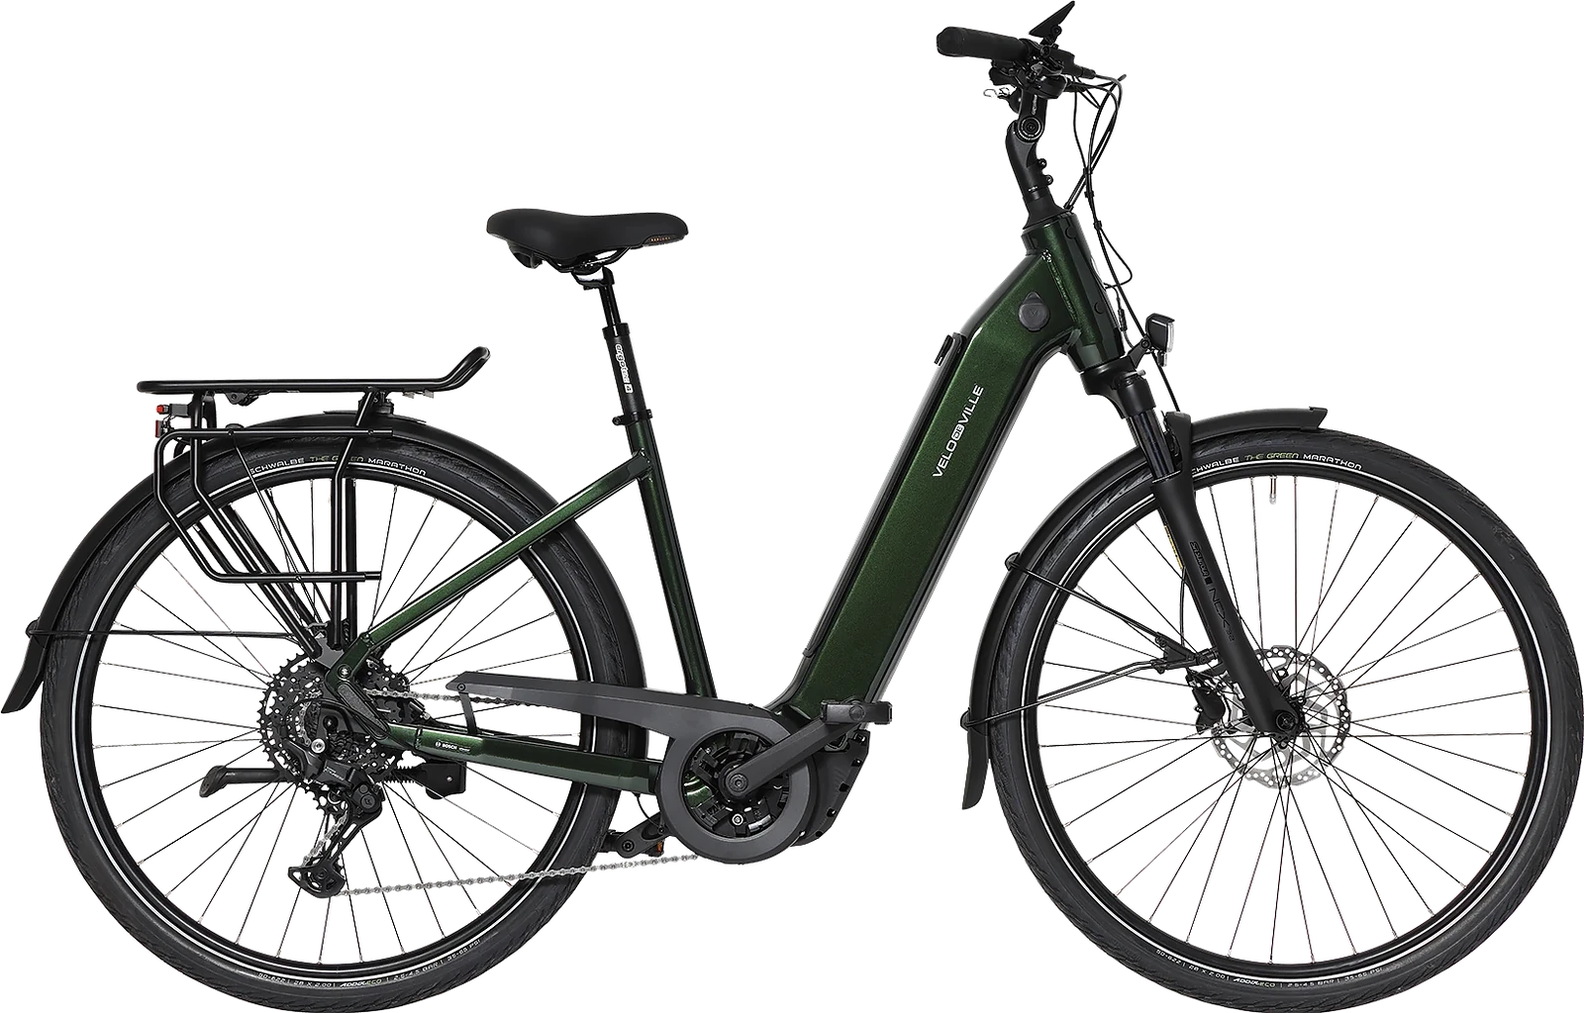
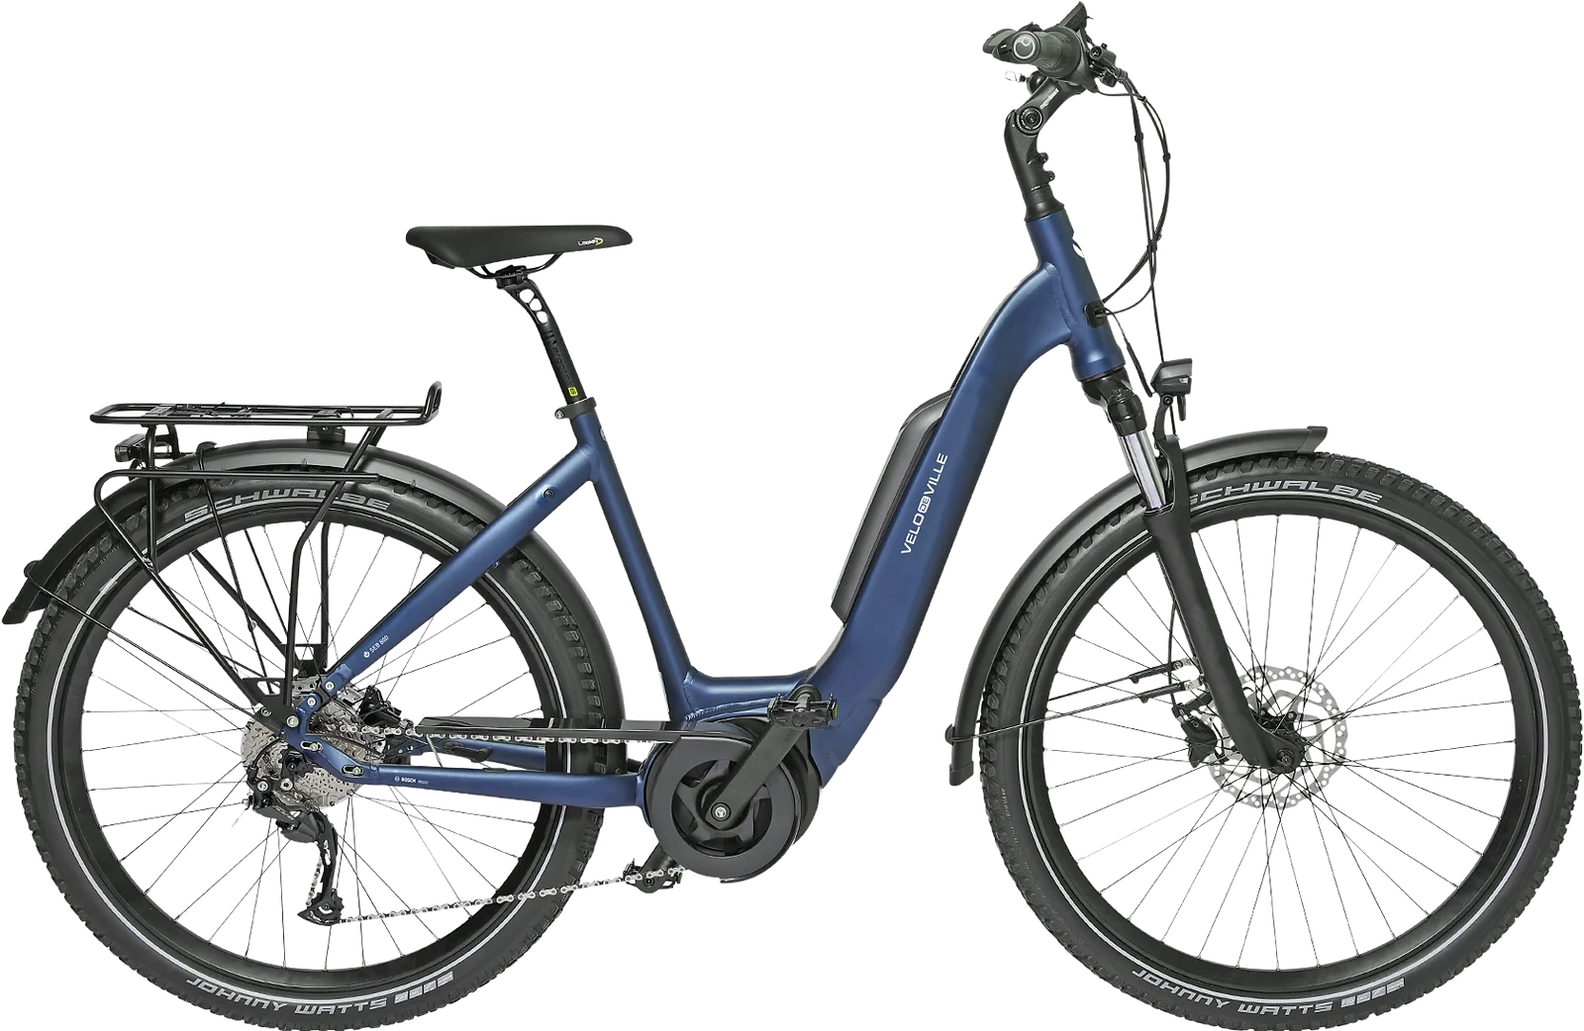
Velocenter-Homepage: neue Knöpfe, Anthrazit-Dock, Probefahrt im Terminformular
Knöpfe mit Symbol-Kapsel rechts (Rot mit Verlauf, Milchglas), Schnellzugriffe als
Anthrazit-Dock mit Live-Punkt; Hol- & Bringservice überall entfernt; Probefahrt im
Formular wählbar und aus dem Showroom vorausgewählt; Velo de Ville: SEB Classic (SUV, ohne Frontträger).

Claude-Session: https://claude.ai/code/session_01AC3hVdMMJayFA5k58UgPiU

Changed region(s): [[0.0, 0.0, 1.0, 1.0]]

diff --git a/velocenter-homepage/index.html b/velocenter-homepage/index.html
@@ -925,6 +925,48 @@ textarea.inp{border-radius:12px}
 .ribbons i:nth-child(1){top:20%;height:30px;filter:none;background:repeating-linear-gradient(180deg,rgba(176,18,31,.8) 0 2px,transparent 2px 10px);-webkit-mask-image:linear-gradient(90deg,transparent 12%,#000 38%,#000 58%,transparent 86%);mask-image:linear-gradient(90deg,transparent 12%,#000 38%,#000 58%,transparent 86%);opacity:.75}
 .ribbons i:nth-child(4){top:74%;height:22px;filter:none;background:repeating-linear-gradient(180deg,rgba(176,18,31,.75) 0 2px,transparent 2px 10px);-webkit-mask-image:linear-gradient(90deg,transparent 20%,#000 45%,#000 60%,transparent 85%);mask-image:linear-gradient(90deg,transparent 20%,#000 45%,#000 60%,transparent 85%);opacity:.6}
 .ribbons i:nth-child(3){background:linear-gradient(90deg,transparent 6%,rgba(80,84,92,.3) 30%,rgba(100,104,112,.4) 55%,rgba(80,84,92,.16) 80%,transparent 95%)}
+
+/* ================= Moderne Knöpfe 2.0 + Anthrazit-Dock (Tiry 12.11.2026) ================= */
+.cta,.ghost{position:relative;isolation:isolate;overflow:hidden;display:inline-flex;align-items:center;gap:14px;min-height:56px;padding:0 6px 0 24px;border-radius:16px;font:700 15.5px/1 var(--display);letter-spacing:.005em;transition:transform .35s var(--ease),box-shadow .35s,background .35s,color .3s}
+.cta svg,.ghost svg{order:2;flex:none;width:44px;height:44px;padding:12px;border-radius:12px;transition:transform .5s var(--spring),background .3s}
+.cta:hover svg,.ghost:hover svg{transform:rotate(-10deg) scale(1.06)}
+.cta:not(:has(svg)),.ghost:not(:has(svg)){padding-right:24px}
+.cta{color:#fff;border:0;background:linear-gradient(120deg,#F4404D 0%,#D3142F 42%,#9E0F22 100%);box-shadow:0 16px 32px -14px rgba(200,16,46,.75),inset 0 1px 0 rgba(255,255,255,.25)}
+.cta svg{background:#fff;color:#C8102E}
+.cta::before{content:"";position:absolute;inset:0;z-index:-1;background:linear-gradient(105deg,transparent 30%,rgba(255,255,255,.38) 50%,transparent 70%);transform:translateX(-120%);transition:transform .9s var(--ease)}
+.cta:hover::before{transform:translateX(120%)}
+.cta:hover{background:linear-gradient(120deg,#F4404D 0%,#D3142F 42%,#9E0F22 100%);transform:translateY(-2px);box-shadow:0 22px 40px -16px rgba(200,16,46,.85),inset 0 1px 0 rgba(255,255,255,.25)}
+.ghost{color:#1B1E25;border:1px solid rgba(255,255,255,.75);background:rgba(255,255,255,.55);backdrop-filter:blur(14px) saturate(1.4);-webkit-backdrop-filter:blur(14px) saturate(1.4);box-shadow:0 12px 28px -16px rgba(27,30,37,.45)}
+.ghost svg{background:#2A2D34;color:#fff}
+.ghost:hover{background:rgba(255,255,255,.88);color:#1B1E25;border-color:#fff;transform:translateY(-2px)}
+.cta.wa{background:linear-gradient(120deg,#34D27A,#1FA855 55%,#137A3D);box-shadow:0 16px 32px -14px rgba(31,168,85,.7)}
+.cta.wa svg{color:#1FA855}
+.hdr .cta{min-height:46px;padding:0 5px 0 18px;border-radius:14px;font-size:14.5px;gap:10px}
+.hdr .cta svg{width:36px;height:36px;padding:9px;border-radius:10px}
+.showinfo .cta,.showinfo .ghost,.fr .cta,.fr .ghost,.chap .ghost,.finder .ghost{min-height:48px;font-size:14.5px;padding-left:18px}
+.showinfo .cta svg,.showinfo .ghost svg,.chap .ghost svg{width:38px;height:38px;padding:10px}
+/* Schnellzugriff als Anthrazit-Dock */
+.quick{gap:6px;padding:8px;border-radius:24px;overflow:visible;background:linear-gradient(180deg,#30333B,#1E2026);border:1px solid rgba(255,255,255,.08);backdrop-filter:none;-webkit-backdrop-filter:none;box-shadow:0 34px 60px -24px rgba(20,22,28,.6),inset 0 1px 0 rgba(255,255,255,.09)}
+.qk{border:0!important;border-radius:18px;padding:14px 52px 14px 14px;background:transparent;align-items:center;transition:background .3s}
+.qk:hover{background:rgba(255,255,255,.07)}
+.qk::before{display:none}
+.qk .ic{width:46px;height:46px;border-radius:13px;background:linear-gradient(135deg,#F4404D,#D3142F 50%,#9E0F22);box-shadow:0 10px 20px -8px rgba(200,16,46,.8),inset 0 1px 0 rgba(255,255,255,.25);transition:transform .5s var(--spring)}
+.qk:hover .ic{transform:rotate(-8deg)}
+.qk .ic svg{color:#fff;width:21px;height:21px}
+.qk b{color:#fff}
+.qk small{color:#A9AEBA}
+.qk::after{content:"→";right:12px;width:32px;height:32px;border-radius:10px;display:grid;place-items:center;background:rgba(255,255,255,.08);color:#fff;font-size:15px;opacity:0;transform:translate(-6px,-50%)}
+.qk:hover::after{opacity:1;transform:translate(0,-50%)}
+.qd{display:inline-block;width:8px;height:8px;border-radius:50%;margin-right:7px;vertical-align:1px;background:#EF4444;box-shadow:0 0 8px rgba(239,68,68,.8)}
+.qd.on{background:#34D399;box-shadow:0 0 8px rgba(52,211,153,.9)}
+@media (max-width:980px){.qk:nth-child(n+3){border-top:0}}
+@media (max-width:640px){
+ .quick{gap:4px;padding:6px;border-radius:20px}
+ .qk{padding:14px;align-items:flex-start}
+ .qk::after{display:none}
+ .cta,.ghost{min-height:52px;padding-left:20px}
+ .cta svg,.ghost svg{width:40px;height:40px;padding:11px}
+}
 </style>
 
 <svg width="0" height="0" style="position:absolute" aria-hidden="true">
@@ -1309,7 +1351,7 @@ m696 -454 c28 -13 46 -31 55 -51 22 -53 -50 -177 -173 -300 -187 -186 -647
      <p class="eyebrow hello" style="--d:.9s">Familienbetrieb seit 1995 · <b>Wörth am Rhein</b></p>
      <h1 class="hh1 hello" style="--d:1s">Ihr E-Bike-Spezialist<br><span class="gt it">mit eigener Werkstatt.</span></h1>
      <p class="lead hello" style="--d:1.1s">Über 300 Räder zum Probefahren, ehrliche Beratung und ein Bosch Service Center, in dem der Chef noch selbst schraubt.</p>
-     <div class="row hello" style="--d:1.2s"><a class="cta" href="#finder"><svg><use href="#i-spark"/></svg>Mein E-Bike finden</a><a class="ghost" href="#termin"><svg><use href="#i-wrench"/></svg>Werkstatt-Termin</a></div>
+     <div class="row hello" style="--d:1.2s"><a class="cta" href="#finder"><svg><use href="#i-spark"/></svg>Mein E-Bike finden</a><a class="ghost" href="#termin"><svg><use href="#i-cal"/></svg>Termin anfragen</a></div>
      <div class="trust hello" style="--d:1.3s"><span><svg style="color:#D97706"><use href="#i-star"/></svg><b>4,8</b> bei Google</span><span><svg><use href="#i-shield"/></svg>Bosch Service Center</span><span><svg><use href="#i-bike"/></svg>i:SY Experte</span><span><svg><use href="#i-clock"/></svg><em class="live" id="live"><i></i><span id="liveT">Öffnungszeiten</span></em></span></div>
     </div>
     <div class="hvis hello" style="--d:.5s" id="hvis">
@@ -1320,11 +1362,11 @@ m696 -454 c28 -13 46 -31 55 -51 22 -53 -50 -177 -173 -300 -187 -186 -647
      <img class="hb off" src="img/p-vanraam.webp" alt="Van Raam Easy Rider E-Dreirad" data-l="img/marke-vanraam.svg" width="1600" height="1193" loading="lazy">
      <div class="hfloor"></div>
      <span class="hchip c1"><b>300+</b> Räder vor Ort</span>
-     <span class="hchip c2"><svg><use href="#i-wrench"/></svg>Hol- &amp; Bringservice</span>
+     <span class="hchip c2"><svg><use href="#i-bike"/></svg>Probefahrt vor Ort</span>
     </div>
    </div>
    <nav class="quick hello" style="--d:1.45s" aria-label="Schnellzugriff">
-    <a class="qk" href="#termin"><span class="ic"><svg><use href="#i-cal"/></svg></span><span><b>Werkstatt-Termin</b><small>Online anfragen in 30 Sekunden</small></span></a>
+    <a class="qk" href="#termin"><span class="ic"><svg><use href="#i-cal"/></svg></span><span><b>Termin anfragen</b><small>Werkstatt oder Probefahrt</small></span></a>
     <a class="qk" href="#finder"><span class="ic"><svg><use href="#i-spark"/></svg></span><span><b>E-Bike-Finder</b><small>2 Fragen, passende Marken</small></span></a>
     <a class="qk" href="#deal"><span class="ic"><svg><use href="#i-gift"/></svg></span><span><b>Winter-Aktion</b><small>–20 € auf jede Inspektion</small></span></a>
     <a class="qk" href="#besuch"><span class="ic"><svg><use href="#i-clock"/></svg></span><span><b>Öffnungszeiten</b><small id="qkHours">Mo, Di, Do, Fr · Sa vormittags</small></span></a>
@@ -1333,7 +1375,7 @@ m696 -454 c28 -13 46 -31 55 -51 22 -53 -50 -177 -173 -300 -187 -186 -647
  </div>
 
  <div class="bands" aria-hidden="true">
-  <div class="band b"><div class="tk" data-t="Wörth am Rhein|Hartmannstraße 25|Familienbetrieb|Probefahrt|Hol- & Bringservice|0 % Finanzierung"></div></div>
+  <div class="band b"><div class="tk" data-t="Wörth am Rhein|Hartmannstraße 25|Familienbetrieb|Probefahrt|Ehrliche Beratung|0 % Finanzierung"></div></div>
   <div class="band a"><div class="tk" data-t="Seit 1995|300+ Räder|4,8 ★ bei Google|Bosch Service Center|i:SY Experte|Weltrekord 283"></div></div>
  </div>
 
@@ -1366,7 +1408,6 @@ m696 -454 c28 -13 46 -31 55 -51 22 -53 -50 -177 -173 -300 -187 -186 -647
    <div class="rows">
     <a class="srow pre" href="#service" style="--c:#F472B6"><span class="ic"><svg><use href="#i-bike"/></svg></span><span><h3>Beratung & Probefahrt</h3><p>Wir hören zu, zeigen eine passende Auswahl und begleiten Sie auf Wunsch bei der Probefahrt.</p></span><span class="go"><svg><use href="#i-arrow"/></svg></span></a>
     <a class="srow pre" href="#termin" style="--c:#22D3EE"><span class="ic"><svg><use href="#i-wrench"/></svg></span><span><h3>Inspektion & Reparatur</h3><p>Geschultes Bosch Service Center. Fachkundige Inspektionen und Reparaturen, auch nach dem Kauf.</p></span><span class="go"><svg><use href="#i-arrow"/></svg></span></a>
-    <a class="srow pre" href="#termin" style="--c:#FB923C"><span class="ic"><svg><use href="#i-truck"/></svg></span><span><h3>Hol- & Bringservice</h3><p>Wir holen Ihr Rad ab und bringen es zurück, gegen Gebühr.</p></span><span class="go"><svg><use href="#i-arrow"/></svg></span></a>
     <a class="srow pre" href="#service" style="--c:#E2232D"><span class="ic"><svg><use href="#i-euro"/></svg></span><span><h3>0 % Finanzierung</h3><p>0 % Zinsen und 0 € Anzahlung über die TARGOBANK.</p></span><span class="go"><svg><use href="#i-arrow"/></svg></span></a>
     <a class="srow pre" href="#service" style="--c:#34D399"><span class="ic"><svg><use href="#i-shield"/></svg></span><span><h3>ENRA Versicherung</h3><p>Schutz gegen Diebstahl, dazu Vollkasko mit Verschleiß und Pick-up-Service.</p></span><span class="go"><svg><use href="#i-arrow"/></svg></span></a>
     <a class="srow pre" href="#service" style="--c:#60A5FA"><span class="ic"><svg><use href="#i-case"/></svg></span><span><h3>Dienstrad-Leasing</h3><p>Wir arbeiten mit fast allen Leasing-Firmen zusammen, z. B. JobRad, Bikeleasing, Company Bike.</p></span><span class="go"><svg><use href="#i-arrow"/></svg></span></a>
@@ -1428,7 +1469,7 @@ m696 -454 c28 -13 46 -31 55 -51 22 -53 -50 -177 -173 -300 -187 -186 -647
    <p class="eyebrow hello">Service</p>
    <h1 class="mega hello" style="--d:.08s;margin-top:18px">Wir überzeugen<br><span class="gt it">mit Service.</span></h1>
    <p class="lead hello" style="--d:.16s">Wir wollen Ihnen nicht irgendein E-Bike verkaufen, sondern das Rad finden, das perfekt zu Ihnen passt. Und wir bleiben an Ihrer Seite, auch nach dem Kauf.</p>
-   <div class="row hello" style="--d:.24s"><a class="cta" href="#termin"><svg><use href="#i-cal"/></svg>Werkstatt-Termin anfragen</a></div>
+   <div class="row hello" style="--d:.24s"><a class="cta" href="#termin"><svg><use href="#i-cal"/></svg>Termin anfragen</a></div>
   </div>
  </div>
 
@@ -1441,7 +1482,6 @@ m696 -454 c28 -13 46 -31 55 -51 22 -53 -50 -177 -173 -300 -187 -186 -647
   <div class="wrap rows">
    <div class="srow pre" style="--c:#F472B6"><span class="ic"><svg><use href="#i-bike"/></svg></span><span><h3>Kaufberatung & Probefahrt</h3><p>Bei unserer fachmännischen Kaufberatung gehen wir genau auf Ihre Wünsche ein. Probefahren können Sie gern, auf Wunsch begleiten wir Sie. Ein i:SY dürfen Sie sogar übers Wochenende testen. Vorab hilft der <a href="https://www.bosch-ebike.com/range-cockpit/?language=de&logo" target="_blank" rel="noopener" style="color:var(--mag)">Bosch Reichweiten-Rechner</a>.</p></span></div>
    <div class="srow pre" style="--c:#22D3EE"><span class="ic"><svg><use href="#i-wrench"/></svg></span><span><h3>Inspektion & Reparatur</h3><p>Auch nach dem Kauf stehen wir an Ihrer Seite: fachkundige Inspektionen und Reparaturen für Fahrrad, E-Bike und E-Dreirad. E-Bike-Inspektion inklusive Software-Update.</p></span></div>
-   <div class="srow pre" style="--c:#FB923C"><span class="ic"><svg><use href="#i-truck"/></svg></span><span><h3>Hol- & Bringservice</h3><p>Keine Zeit oder kein Auto für den Transport? Wir holen Ihr Rad gegen Gebühr ab und bringen es nach der Werkstatt zurück.</p></span></div>
   </div>
  </div>
 
@@ -1449,15 +1489,15 @@ m696 -454 c28 -13 46 -31 55 -51 22 -53 -50 -177 -173 -300 -187 -186 -647
   <div class="wrap formwrap">
    <div class="pre">
     <p class="eyebrow">Online-<b>Terminanfrage</b></p>
-    <h2 class="big" style="margin-top:16px">Werkstatt-Termin <span class="gt">in 30 Sekunden.</span></h2>
-    <p class="lead" style="margin-top:20px">Wunschtag wählen, kurz beschreiben, abschicken. Ihre Anfrage geht direkt an uns, wir melden uns mit einem festen Termin.</p>
+    <h2 class="big" style="margin-top:16px">Termin anfragen <span class="gt">in 30 Sekunden.</span></h2>
+    <p class="lead" style="margin-top:20px">Probefahrt oder Werkstatt: Wunschtag wählen, kurz beschreiben, abschicken. Ihre Anfrage geht direkt an uns, wir melden uns mit einem festen Termin.</p>
     <div class="blobimg" style="margin-top:34px;max-width:460px"><img src="img/isy-blumen.webp" alt="i:SY E-Bikes mit Blumenkörben vor einer Holzhütte" loading="lazy" width="800" height="600"></div>
    </div>
    <form class="panel form pre" id="tf" novalidate style="--d:.1s">
-    <div class="fl"><span class="flab">Was dürfen wir tun?</span><div class="choice" id="tArt"><button type="button" class="on" data-v="Inspektion">Inspektion</button><button type="button" data-v="Reparatur">Reparatur</button><button type="button" data-v="Bosch-Diagnose">Bosch-Diagnose</button><button type="button" data-v="Reifen/Schlauch">Reifen / Schlauch</button></div></div>
-    <div class="fl"><span class="flab">Ihr Rad</span><div class="choice" id="tRad"><button type="button" data-v="Fahrrad">Fahrrad</button><button type="button" class="on" data-v="E-Bike">E-Bike</button><button type="button" data-v="E-Dreirad">E-Dreirad</button><button type="button" data-v="Lastenrad">Lastenrad</button></div></div>
+    <div class="fl"><span class="flab">Worum geht es?</span><div class="choice" id="tArt"><button type="button" data-v="Probefahrt">Probefahrt</button><button type="button" class="on" data-v="Inspektion">Inspektion</button><button type="button" data-v="Reparatur">Reparatur</button><button type="button" data-v="Bosch-Diagnose">Bosch-Diagnose</button><button type="button" data-v="Reifen/Schlauch">Reifen / Schlauch</button></div></div>
+    <div class="fl"><span class="flab">Rad</span><div class="choice" id="tRad"><button type="button" data-v="Fahrrad">Fahrrad</button><button type="button" class="on" data-v="E-Bike">E-Bike</button><button type="button" data-v="E-Dreirad">E-Dreirad</button><button type="button" data-v="Lastenrad">Lastenrad</button></div></div>
     <div class="r2"><div class="fl"><label for="tName">Name</label><input class="inp" id="tName" autocomplete="name" placeholder="Vor- und Nachname"></div><div class="fl"><label for="tTel">Telefon</label><input class="inp" id="tTel" type="tel" autocomplete="tel" placeholder="Für die Rückmeldung"></div></div>
-    <div class="r2"><div class="fl"><label for="tTag">Wunschtag</label><input class="inp" id="tTag" type="date"></div><div class="fl"><span class="flab">Hol- & Bringservice</span><div class="choice" id="tHol"><button type="button" class="on" data-v="nein">Nein</button><button type="button" data-v="ja">Ja, bitte</button></div></div></div>
+    <div class="r2"><div class="fl"><label for="tTag">Wunschtag</label><input class="inp" id="tTag" type="date"></div><div class="fl"><span class="flab">Tageszeit</span><div class="choice" id="tZeit"><button type="button" data-v="Vormittag">Vormittag</button><button type="button" data-v="Nachmittag">Nachmittag</button><button type="button" class="on" data-v="egal">Egal</button></div></div></div>
     <div class="fl"><label for="tMsg">Was ist los? (optional)</label><textarea class="inp" id="tMsg" placeholder="z. B. Bremse quietscht, Akku lädt nicht, Modell …"></textarea></div>
     <div class="err" id="tErr" role="alert"></div>
     <button class="cta" type="submit" style="align-self:flex-start"><svg><use href="#i-arrow"/></svg>Anfrage erstellen</button>
@@ -1700,7 +1740,7 @@ m696 -454 c28 -13 46 -31 55 -51 22 -53 -50 -177 -173 -300 -187 -186 -647
   <div class="sec plus" style="padding-top:0">
    <h2 class="big pre" style="margin-bottom:26px">Mehr Werkstatt. <span class="gt">Mehr Verkauf.</span></h2>
    <div class="find">
-    <div class="fnd pre"><span class="k">✓</span><p><b>Online-Terminanfrage für die Werkstatt</b> mit Wunschtag (Mi/So gesperrt) und Hol-/Bringservice, geht per WhatsApp oder E-Mail direkt an uns.<small>Füllt die Werkstatt, gerade im Winter.</small></p></div>
+    <div class="fnd pre"><span class="k">✓</span><p><b>Online-Terminanfrage für Probefahrt und Werkstatt</b> mit Wunschtag (Mi/So gesperrt) und Tageszeit, geht per WhatsApp oder E-Mail direkt an uns.<small>Füllt die Werkstatt und bringt Probefahrten in den Laden.</small></p></div>
     <div class="fnd pre"><span class="k">✓</span><p><b>E-Bike-Finder</b>: 2 Fragen, dann passende Marken mit Bild und der Knopf zur Probefahrt.<small>Bringt Kunden mit klarem Wunsch in den Laden.</small></p></div>
     <div class="fnd pre"><span class="k">✓</span><p><b>Showroom</b> mit allen 7 Marken zum Durchblättern, freigestellte Herstellerbilder in hoher Auflösung.</p></div>
     <div class="fnd pre"><span class="k">✓</span><p><b>Live „Jetzt geöffnet“</b> und die heutige Öffnungszeit hervorgehoben.</p></div>
@@ -1755,7 +1795,7 @@ const BR=[
  {k:'isy',n:'i:SY',m:'i:SY E5 ZR F CX Century',img:'img/p-isy.webp',logo:'img/marke-isy.svg',o:.3,c:'#FF7A1A',t:'Das 20-Zoll-Kompaktrad. Seit über 10 Jahren sind wir i:SY Experte und haben ständig über 100 i:SY vorrätig.',a:[['Mehr zu i:SY','#isy']]},
  {k:'ktm',n:'KTM',m:'KTM Macina Style 830',img:'img/p-ktm.webp',logo:'img/marke-ktm.svg',o:.13,c:'#FF6A00',t:'Traditionsmarke mit großer E-Bike-Auswahl, vom bequemen Tiefeinsteiger bis zum Trekking-Rad.',a:[['ktm-bikes.at','https://www.ktm-bikes.at/']]},
  {k:'qio',n:'QiO',m:'QiO Compact P5',img:'img/p-qio.webp',logo:'img/marke-qio.svg',o:.12,c:'#38BDF8',t:'Innovatives Kompaktrad-Konzept. Am besten selbst erleben: Probefahrt bei uns im Laden.',a:[['qio-bikes.com','https://www.qio-bikes.com/']]},
- {k:'vdv',n:'Velo de Ville',m:'Velo de Ville AEB Pro',img:'img/p-vdv.webp',logo:'img/marke-vdv.svg',o:.16,c:'#F97316',t:'Rad nach Wunsch: Rahmen, Farbe und Ausstattung stellen Sie selbst zusammen.',a:[['Zum Konfigurator','https://konfigurator.velo-de-ville.com/de?h_ident=28181&direct=true']]},
+ {k:'vdv',n:'Velo de Ville',m:'Velo de Ville SEB Classic',img:'img/p-vdv.webp',logo:'img/marke-vdv.svg',o:.16,c:'#F97316',t:'Rad nach Wunsch: Rahmen, Farbe und Ausstattung stellen Sie selbst zusammen.',a:[['Zum Konfigurator','https://konfigurator.velo-de-ville.com/de?h_ident=28181&direct=true']]},
  {k:'vanraam',n:'Van Raam',m:'Van Raam Easy Rider',img:'img/p-vanraam.webp',logo:'img/marke-vanraam.svg',o:.26,c:'#A855F7',t:'E-Dreiräder vom Weltmarktführer aus Holland. Bei uns: der Easy Rider.',a:[['Mehr zu E-Dreirädern','#dreirad']]},
  {k:'gudereit',n:'Gudereit',m:'Gudereit EC-35 Evo',img:'img/p-gudereit.webp',logo:'img/marke-gudereit.svg',o:.22,c:'#E2232D',t:'Bei uns das EC-35 Evo von Gudereit.',a:[['gudereit.de','https://www.gudereit.de/']]},
  {k:'victoria',n:'Victoria',m:'Victoria eManufaktur 11.9 Wave',img:'img/p-victoria.webp',logo:'img/marke-victoria.svg',o:.24,c:'#22D3EE',t:'Traditionsmarke mit alltagstauglichen E-Bikes.',a:[['victoria-bikes.com','https://www.victoria-bikes.com/']]}
@@ -1871,7 +1911,7 @@ function countUp(){const el=$('#rekord');const t0=performance.now();const f=t=>{
 /* ---------- Auswahl, Termin, Kontakt ---------- */
 $$('.choice').forEach(g=>g.addEventListener('click',e=>{const b=e.target.closest('button');if(!b)return;$$('button',g).forEach(x=>x.classList.toggle('on',x===b))}));
 const val=id=>$('#'+id+' button.on')?.dataset.v||'';
-function preset(t){const m=$('#tMsg');if(m&&!m.value)m.value=t+': '}
+function preset(t){const m=$('#tMsg');if(/^Probefahrt/.test(t)){$$('#tArt button').forEach(b=>b.classList.toggle('on',b.dataset.v==='Probefahrt'));const n=t.replace(/^Probefahrt\s*/,'');if(m&&!m.value&&n)m.value='Interesse: '+n;return}if(m&&!m.value)m.value=t+': '}
 const tTag=$('#tTag');const tm=new Date();tm.setDate(tm.getDate()+1);tTag.min=tm.toISOString().slice(0,10);
 const fmt=s=>{const[y,m,d]=s.split('-');return d+'.'+m+'.'+y};
 $('#tf').addEventListener('submit',e=>{e.preventDefault();const err=$('#tErr');err.textContent='';
@@ -1879,9 +1919,9 @@ $('#tf').addEventListener('submit',e=>{e.preventDefault();const err=$('#tErr');e
  if(!name){err.textContent='Bitte geben Sie Ihren Namen ein.';$('#tName').focus();return}
  if(!tel){err.textContent='Bitte geben Sie eine Telefonnummer für die Rückmeldung ein.';$('#tTel').focus();return}
  if(tag){const wd=new Date(tag+'T12:00:00').getDay();if(wd===3||wd===0){err.textContent='Mittwoch und Sonntag haben wir geschlossen. Bitte wählen Sie einen anderen Tag.';tTag.focus();return}if(tag<tTag.min){err.textContent='Bitte wählen Sie einen Tag ab morgen.';tTag.focus();return}}
- const txt='Hallo Velocenter,\nich möchte einen Werkstatt-Termin anfragen.\n\nLeistung: '+val('tArt')+'\nRad: '+val('tRad')+'\nWunschtag: '+(tag?DN[new Date(tag+'T12:00:00').getDay()]+', '+fmt(tag):'egal')+'\nHol- & Bringservice: '+(val('tHol')==='ja'?'ja, bitte':'nein')+(msg?'\nInfo: '+msg:'')+'\n\nName: '+name+'\nTelefon: '+tel;
+ const pf=val('tArt')==='Probefahrt';const txt='Hallo Velocenter,\n'+(pf?'ich möchte eine Probefahrt vereinbaren.':'ich möchte einen Werkstatt-Termin anfragen.')+'\n\nAnliegen: '+val('tArt')+'\nRad: '+val('tRad')+'\nWunschtag: '+(tag?DN[new Date(tag+'T12:00:00').getDay()]+', '+fmt(tag):'egal')+'\nTageszeit: '+val('tZeit')+(msg?'\nInfo: '+msg:'')+'\n\nName: '+name+'\nTelefon: '+tel;
  $('#tTxt').textContent=txt;$('#tWa').href='https://wa.me/'+WA+'?text='+encodeURIComponent(txt);
- $('#tMail').href='mailto:info@velo-center.de?subject='+encodeURIComponent('Werkstatt-Termin: '+val('tArt')+' ('+name+')')+'&body='+encodeURIComponent(txt);
+ $('#tMail').href='mailto:info@velo-center.de?subject='+encodeURIComponent('Terminanfrage: '+val('tArt')+' ('+name+')')+'&body='+encodeURIComponent(txt);
  const o=$('#tOut');o.hidden=false;o.scrollIntoView({behavior:RM?'auto':'smooth',block:'nearest'})});
 $('#tCopy').addEventListener('click',()=>copy($('#tTxt').textContent,$('#tCopy')));
 let via='wa';$$('#kf button[type=submit]').forEach(b=>b.addEventListener('click',()=>via=b.dataset.via));
@@ -1915,7 +1955,7 @@ fRender();
 /* ---------- Kopf: Rad-Wechsel + heutige Öffnungszeit ---------- */
 (function(){const hv=$('#hvis');if(!hv)return;const bs=$$('.hb',hv),lg=$('#hlg');let k=0;
  setInterval(()=>{if(cur!=='start'||scrollY>innerHeight)return;bs[k].classList.add('off');k=(k+1)%bs.length;bs[k].classList.remove('off');lg.classList.add('swap');setTimeout(()=>{lg.src=bs[k].dataset.l;lg.classList.remove('swap')},350)},4800);
- const {d}=berlin(),q=$('#qkHours');if(q)q.textContent='Heute: '+(H[d].length?H[d].map(([a,b])=>hm(a)+'–'+hm(b)).join(' · '):'geschlossen');})();
+ const {d,m}=berlin(),q=$('#qkHours');if(q){const op=H[d].some(([a,b])=>m>=a&&m<b);q.innerHTML='<i class="qd'+(op?' on':'')+'"></i>'+(op?'Jetzt geöffnet':'Heute: '+(H[d].length?H[d].map(([a,b])=>hm(a)+'–'+hm(b)).join(' · '):'geschlossen'))}})();
 go(true);
 })();
 </script>
